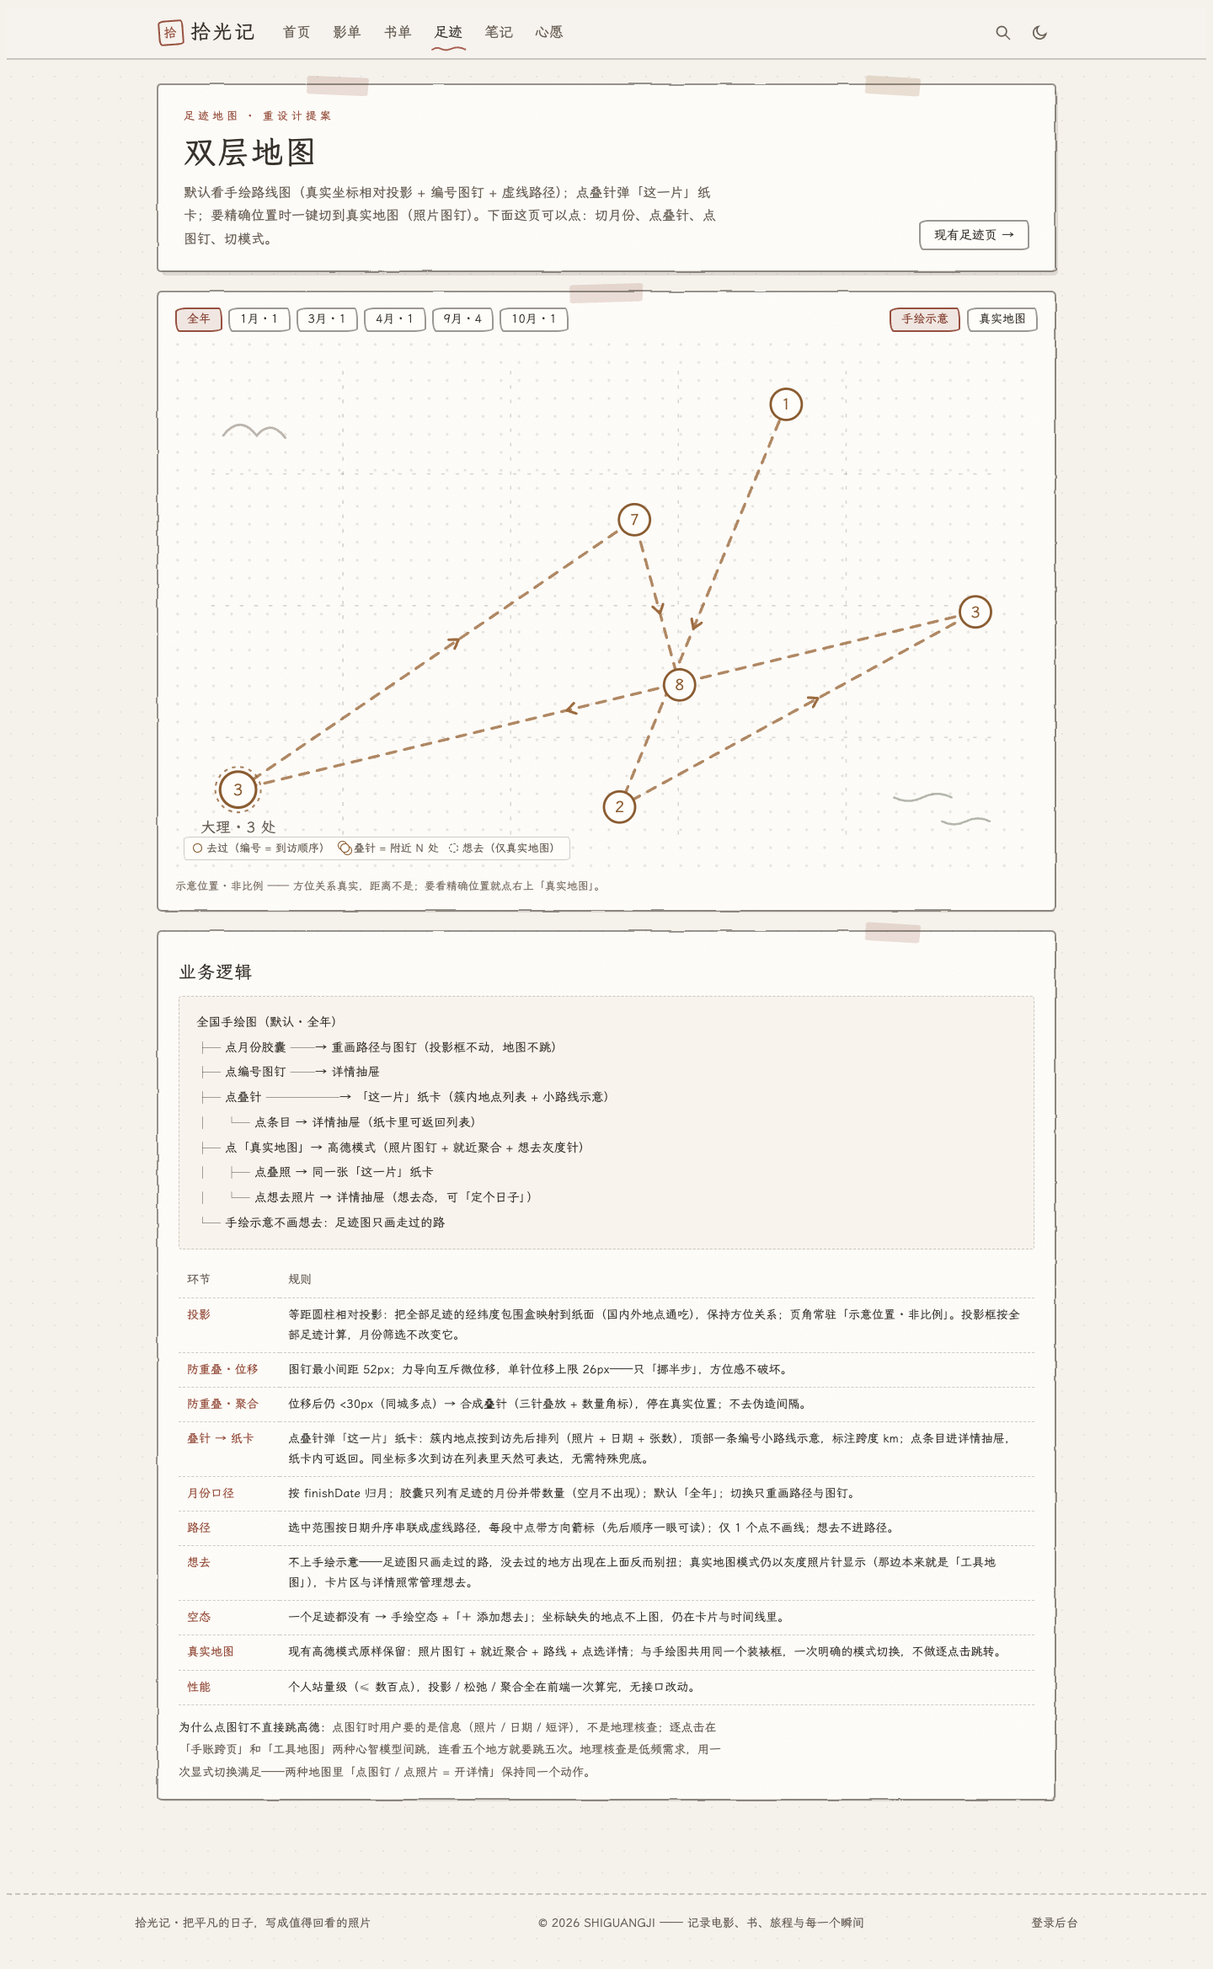
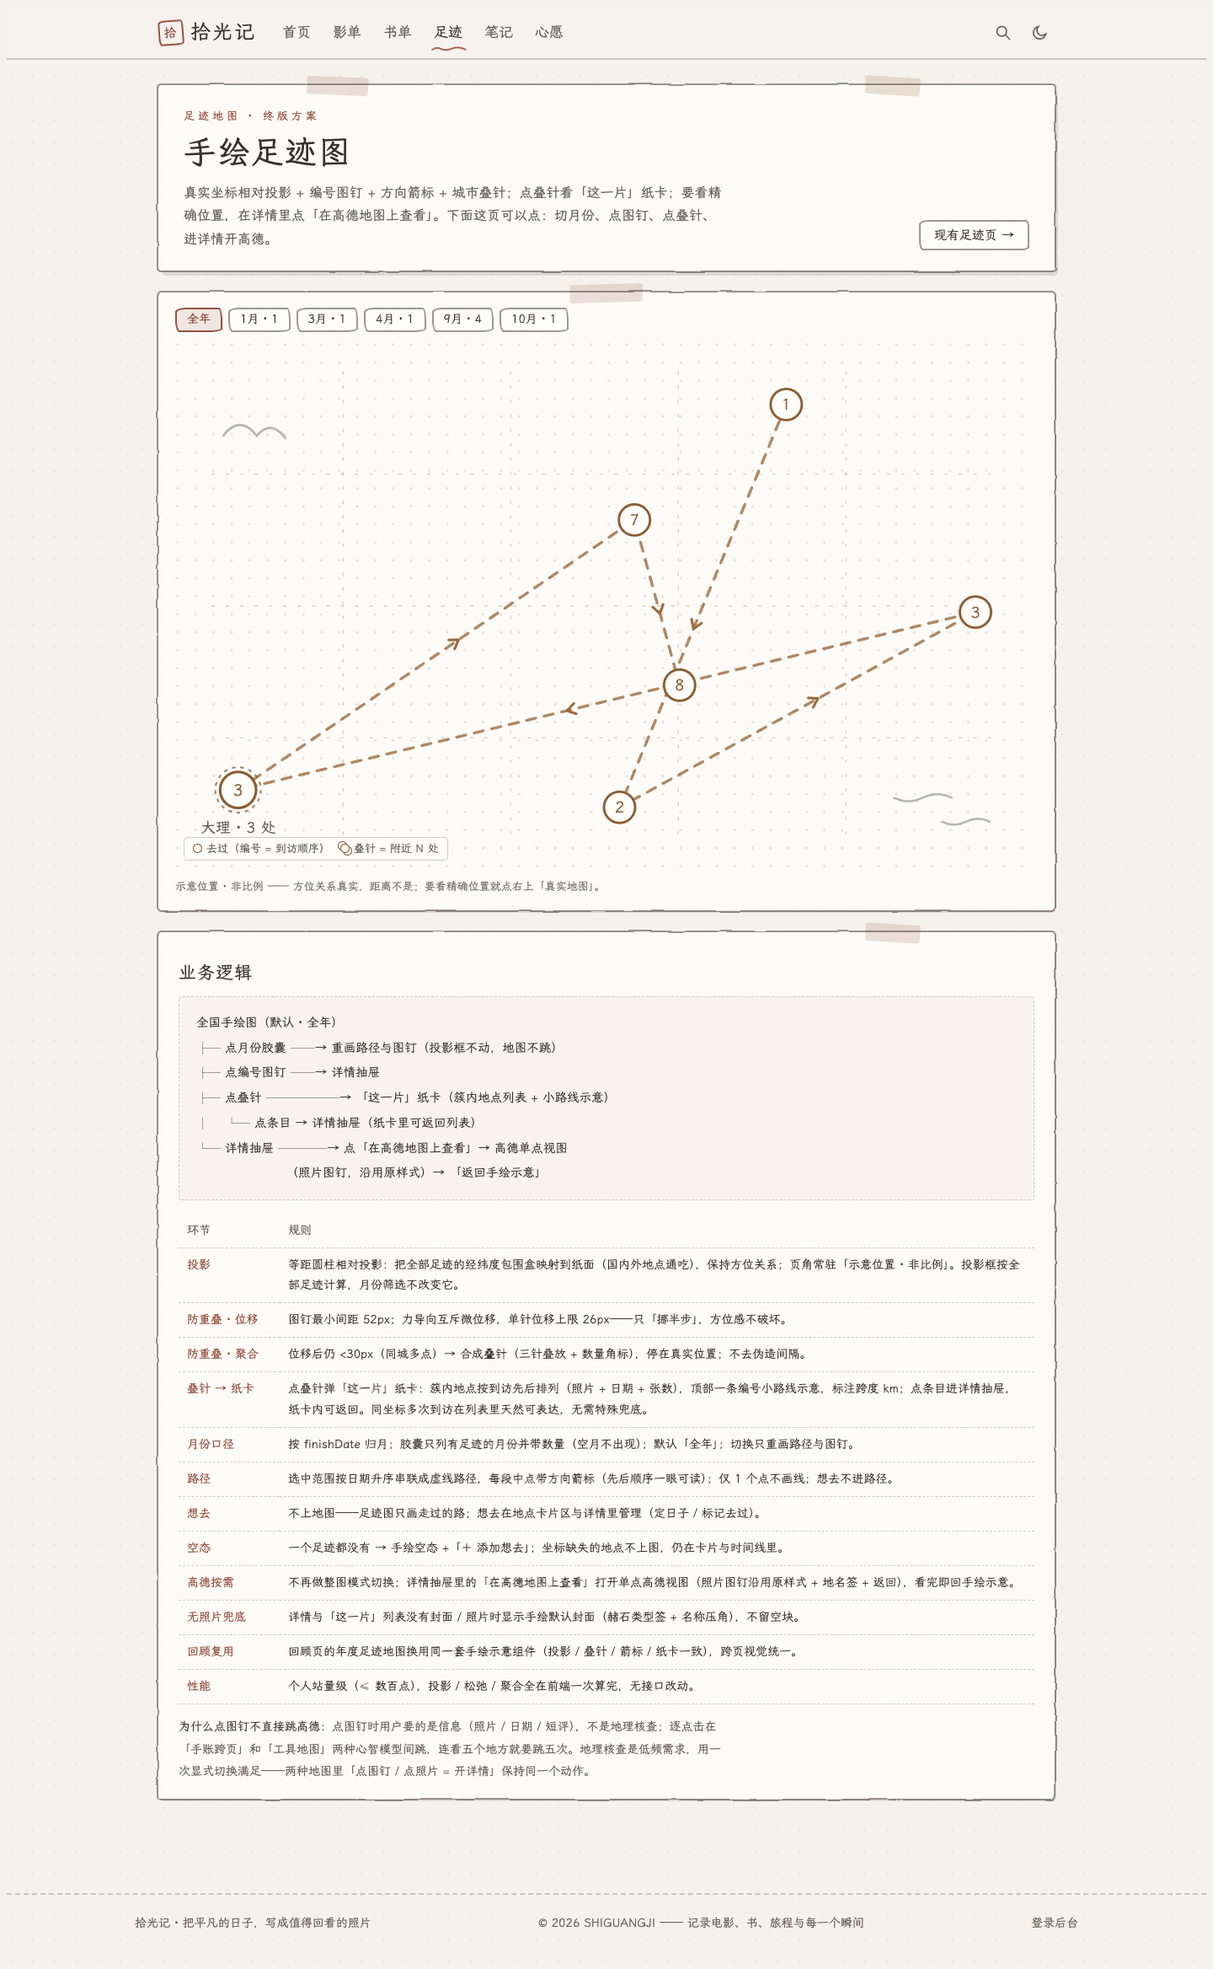
docs(handdrawn): 足迹地图终版——砍掉真实地图模式，高德降为详情单点入口
- 地图只保留手绘足迹图；详情抽屉加「在高德地图上查看」：打开单点高德视图
  （照片图钉沿用原样式 + 地名签 + 返回），不再做整图切换
- 详情与「这一片」列表无照片时显示手绘默认封面（赭石类型签 + 名称压角）
- 想去不上任何地图；回顾页地图复用同一套手绘示意组件（规则表记录）
- 设计文档 §3 足迹改为终版口径；索引卡更新

diff --git a/docs/design/mockups/handdrawn-0.0.6/travel-map.html b/docs/design/mockups/handdrawn-0.0.6/travel-map.html
@@ -3,7 +3,7 @@
 <head>
 <meta charset="utf-8">
 <meta name="viewport" content="width=device-width, initial-scale=1">
-<title>足迹地图重设计 · 设计提案 — 拾光记 0.0.6</title>
+<title>手绘足迹图 · 设计提案 — 拾光记 0.0.6</title>
 <link rel="stylesheet" href="../../../../shiguangji-web/src/assets/fonts/handdrawn/lxgw-wenkai/lxgw-wenkai.css">
 <link rel="stylesheet" href="handdrawn-site.css">
 <style>
@@ -129,6 +129,40 @@
 .page-mapdoc .back-link { border: 0; background: none; padding: 0 0 2px; font-size: 13px; color: var(--hd-ink-soft); cursor: pointer; border-bottom: 1.4px dashed var(--hd-line-soft); font-family: var(--hd-hand) }
 .page-mapdoc .back-link:hover { color: var(--hd-red) }
 
+/* 无照片默认封面（列表小图 / 详情大图共用形制） */
+.page-mapdoc .clu-fb, .page-mapdoc .ph.ph-fb {
+  flex: none; position: relative; overflow: hidden;
+  width: 44px; height: 56px;
+  background: var(--hd-amber-soft);
+  border: 1.6px solid var(--hd-line); border-radius: 3px 1px 4px 2px;
+  display: flex; flex-direction: column; justify-content: flex-end;
+}
+.page-mapdoc .ph.ph-fb { width: 100%; height: 150px; border-radius: 3px; justify-content: flex-end }
+.page-mapdoc .fb-band {
+  position: absolute; top: 0; left: 0; font-style: normal;
+  font-size: 11px; padding: 1px 7px; color: var(--hd-paper);
+  background: var(--hd-ochre); border-radius: 2px 0 3px 0; font-family: var(--hd-hand);
+}
+.page-mapdoc .ph .fb-band { font-size: 13px; padding: 2px 10px }
+.page-mapdoc .fb-t {
+  font-weight: 400; font-size: 12.5px; color: var(--hd-ink);
+  padding: 2px 6px 4px; line-height: 1.3;
+  background: linear-gradient(180deg, transparent, rgba(255, 253, 249, .9) 38%);
+  font-family: var(--hd-hand); white-space: nowrap; overflow: hidden; text-overflow: ellipsis;
+}
+.page-mapdoc .ph .fb-t { font-size: 17px; padding: 6px 12px 8px }
+.page-mapdoc .ph-img { width: 100%; height: 150px; object-fit: cover; border-radius: 3px; display: block }
+
+/* 高德单点视图 */
+.page-mapdoc .amap-back { position: absolute; left: 12px; top: 12px; z-index: 5 }
+.page-mapdoc .amap-title {
+  position: absolute; left: 50%; top: calc(44% + 40px); transform: translateX(-50%);
+  z-index: 4; padding: 3px 12px; font-size: 13.5px; color: var(--hd-ink);
+  background: var(--hd-paper); border: 1.6px solid var(--hd-line);
+  border-radius: 9px 3px 8px 3px / 3px 8px 3px 9px; font-family: var(--hd-hand);
+  white-space: nowrap;
+}
+
 /* 状态机 / 规则 */
 .page-mapdoc .logic { margin-top: 26px; padding: 20px 24px 18px }
 .page-mapdoc .logic h2 { font-size: 21px; letter-spacing: 1px; margin: 14px 0 0 }
@@ -184,9 +218,9 @@
     <span class="hd-tape left"></span>
     <span class="hd-tape right amber"></span>
     <div>
-      <div class="eyebrow">足迹地图 · 重设计提案</div>
-      <h1>双层地图</h1>
-      <p class="desc">默认看手绘路线图（真实坐标相对投影 + 编号图钉 + 虚线路径）；点叠针弹「这一片」纸卡；要精确位置时一键切到真实地图（照片图钉）。下面这页可以点：切月份、点叠针、点图钉、切模式。</p>
+      <div class="eyebrow">足迹地图 · 终版方案</div>
+      <h1>手绘足迹图</h1>
+      <p class="desc">真实坐标相对投影 + 编号图钉 + 方向箭标 + 城市叠针；点叠针看「这一片」纸卡；要看精确位置，在详情里点「在高德地图上查看」。下面这页可以点：切月份、点图钉、点叠针、进详情开高德。</p>
     </div>
     <div class="acts">
       <a class="hd-btn" href="travel.html">现有足迹页 →</a>
@@ -198,10 +232,6 @@
     <span class="hd-tape"></span>
     <div class="map-toolbar">
       <div class="hd-chips" id="monthChips" role="group" aria-label="按月份筛选"></div>
-      <div class="mode-toggle">
-        <button class="hd-chip on" id="modeHand" type="button">手绘示意</button>
-        <button class="hd-chip" id="modeReal" type="button">真实地图</button>
-      </div>
     </div>
     <div class="map-stage" id="mapStage">
       <svg class="map-art" id="handMap" viewBox="0 0 720 440" role="img" aria-label="手绘足迹示意图"></svg>
@@ -209,7 +239,6 @@
       <div class="map-legend">
         <span><i class="lg-dot"></i>去过（编号 = 到访顺序）</span>
         <span><i class="lg-dot cluster"></i>叠针 = 附近 N 处</span>
-        <span id="lgWish"><i class="lg-dot wish"></i>想去（仅真实地图）</span>
       </div>
     </div>
     <p class="map-note">示意位置 · 非比例 —— 方位关系真实，距离不是；要看精确位置就点右上「真实地图」。</p>
@@ -225,10 +254,8 @@
 ├─ 点编号图钉 ──→ 详情抽屉
 ├─ 点叠针 ──────→ 「这一片」纸卡（簇内地点列表 + 小路线示意）
 │    └─ 点条目 → 详情抽屉（纸卡里可返回列表）
-├─ 点「真实地图」→ 高德模式（照片图钉 + 就近聚合 + 想去灰度针）
-│    ├─ 点叠照 → 同一张「这一片」纸卡
-│    └─ 点想去照片 → 详情抽屉（想去态，可「定个日子」）
-└─ 手绘示意不画想去：足迹图只画走过的路</div>
+└─ 详情抽屉 ────→ 点「在高德地图上查看」→ 高德单点视图
+                     （照片图钉，沿用原样式）→ 「返回手绘示意」</div>
 
     <table class="rule-table">
       <thead><tr><th style="width:120px">环节</th><th>规则</th></tr></thead>
@@ -239,9 +266,11 @@
         <tr><td class="k">叠针 → 纸卡</td><td>点叠针弹<b>「这一片」纸卡</b>：簇内地点按到访先后排列（照片 + 日期 + 张数），顶部一条编号小路线示意，标注跨度 km；点条目进详情抽屉，纸卡内可返回。同坐标多次到访在列表里天然可表达，无需特殊兜底。</td></tr>
         <tr><td class="k">月份口径</td><td>按 finishDate 归月；胶囊只列<b>有足迹的月份</b>并带数量（空月不出现）；默认「全年」；切换只重画路径与图钉。</td></tr>
         <tr><td class="k">路径</td><td>选中范围按日期升序串联成虚线路径，<b>每段中点带方向箭标</b>（先后顺序一眼可读）；仅 1 个点不画线；想去不进路径。</td></tr>
-        <tr><td class="k">想去</td><td><b>不上手绘示意</b>——足迹图只画走过的路，没去过的地方出现在上面反而别扭；真实地图模式仍以灰度照片针显示（那边本来就是「工具地图」），卡片区与详情照常管理想去。</td></tr>
+        <tr><td class="k">想去</td><td>不上地图——足迹图只画走过的路；想去在地点卡片区与详情里管理（定日子 / 标记去过）。</td></tr>
         <tr><td class="k">空态</td><td>一个足迹都没有 → 手绘空态 +「＋ 添加想去」；坐标缺失的地点不上图，仍在卡片与时间线里。</td></tr>
-        <tr><td class="k">真实地图</td><td>现有高德模式原样保留：照片图钉 + 就近聚合 + 路线 + 点选详情；与手绘图共用同一个装裱框，一次明确的模式切换，不做逐点击跳转。</td></tr>
+        <tr><td class="k">高德按需</td><td>不再做整图模式切换；详情抽屉里的<b>「在高德地图上查看」</b>打开单点高德视图（照片图钉沿用原样式 + 地名签 + 返回），看完即回手绘示意。</td></tr>
+        <tr><td class="k">无照片兜底</td><td>详情与「这一片」列表没有封面 / 照片时显示手绘默认封面（赭石类型签 + 名称压角），不留空块。</td></tr>
+        <tr><td class="k">回顾复用</td><td>回顾页的年度足迹地图换用<b>同一套手绘示意组件</b>（投影 / 叠针 / 箭标 / 纸卡一致），跨页视觉统一。</td></tr>
         <tr><td class="k">性能</td><td>个人站量级（≤ 数百点），投影 / 松弛 / 聚合全在前端一次算完，无接口改动。</td></tr>
       </tbody>
     </table>
@@ -275,7 +304,7 @@ var PLACES = [
   { id: 3, t: '鸭川', city: '京都', lng: 135.77, lat: 35.01, d: '2026-04-08', photos: 22 },
   { id: 5, t: '洱海', city: '大理', lng: 100.18, lat: 25.75, d: '2026-09-22', photos: 18 },
   { id: 6, t: '喜洲', city: '大理', lng: 100.13, lat: 25.99, d: '2026-09-23', photos: 9 },
-  { id: 7, t: '古城', city: '大理', lng: 100.16, lat: 25.69, d: '2026-09-24', photos: 12 },
+  { id: 7, t: '古城', city: '大理', lng: 100.16, lat: 25.69, d: '2026-09-24', photos: 12, cover: null },
   { id: 4, t: '阿那亚', city: '秦皇岛', lng: 119.30, lat: 39.78, d: '2026-09-27', photos: 31 },
   { id: 8, t: '外滩', city: '上海', lng: 121.48, lat: 31.23, d: '2026-10-12', photos: 7 },
   { id: 9, t: '西湖', city: '杭州', lng: 120.15, lat: 30.25, wish: true, photos: 0 }
@@ -474,9 +503,16 @@ function openCluster(G) {
   members.forEach(function (m) {
     var r = document.createElement('div');
     r.className = 'clu-row';
-    var img = document.createElement('img');
-    img.src = PHOTOS[m.id % PHOTOS.length]; img.alt = m.t;
-    r.appendChild(img);
+    if (m.cover) {
+      var img = document.createElement('img');
+      img.src = m.cover; img.alt = m.t;
+      r.appendChild(img);
+    } else {
+      var fb = document.createElement('span');
+      fb.className = 'clu-fb';
+      fb.innerHTML = '<i class="fb-band">地点</i><b class="fb-t">' + m.t + '</b>';
+      r.appendChild(fb);
+    }
     var tx = document.createElement('div');
     tx.style.minWidth = '0';
     tx.innerHTML = '<div class="clu-t">' + m.t + '</div><div class="clu-m">' + m.city + ' · ' + (m.d || '').slice(5).replace('-', '/') + ' · ' + (m.photos || 0) + ' 张照片</div>';
@@ -513,7 +549,15 @@ function renderPlace(p, fromCluster) {
   meta.innerHTML = '<span>' + p.city + ' · 中国</span><span>' + (p.d ? (Number(p.d.slice(5, 7)) + ' 月 ' + Number(p.d.slice(8, 10)) + ' 日') : '还没定日子') + '</span><span>' + (p.photos || 0) + ' 张照片</span>';
   body.appendChild(meta);
   var ph = document.createElement('div');
-  ph.className = 'ph'; ph.textContent = '首张照片（cover）';
+  ph.className = 'ph';
+  if (p.cover) {
+    var phImg = document.createElement('img');
+    phImg.className = 'ph-img'; phImg.src = p.cover; phImg.alt = p.t;
+    ph.appendChild(phImg);
+  } else {
+    ph.classList.add('ph-fb');
+    ph.innerHTML = '<i class="fb-band">地点</i><b class="fb-t">' + p.t + '</b>';
+  }
   body.appendChild(ph);
   var say = document.createElement('div');
   say.className = 'say';
@@ -521,14 +565,28 @@ function renderPlace(p, fromCluster) {
   body.appendChild(say);
   var acts = document.createElement('div');
   acts.className = 'acts';
-  acts.innerHTML = '<button class="hd-btn sub" type="button">编辑</button><button class="hd-btn sub" type="button">删除</button>';
+  var amapBtn = document.createElement('button');
+  amapBtn.className = 'hd-btn go'; amapBtn.type = 'button';
+  amapBtn.textContent = '在高德地图上查看';
+  amapBtn.addEventListener('click', function () {
+    document.getElementById('mockDrawer').classList.remove('open');
+    drawAmap(p);
+  });
+  acts.appendChild(amapBtn);
+  var edit = document.createElement('button');
+  edit.className = 'hd-btn sub'; edit.type = 'button'; edit.textContent = '编辑';
+  acts.appendChild(edit);
+  var del = document.createElement('button');
+  del.className = 'hd-btn sub'; del.type = 'button'; del.textContent = '删除';
+  acts.appendChild(del);
   body.appendChild(acts);
   document.getElementById('mockDrawer').classList.add('open');
 }
 
-/* ===== 真实地图模式（伪高德演示） ===== */
-var realMap = document.getElementById('realMap');
-function drawReal() {
+/* ===== 高德单点视图（按需）：详情里点「在高德地图上查看」打开，只看这一个点 ===== */
+function drawAmap(p) {
+  handMap.hidden = true;
+  realMap.hidden = false;
   realMap.innerHTML = '';
   [['road', '8%', '30%', '70%', '3px', '-6deg'], ['road', '30%', '80%', '50%', '2px', '4deg'], ['road', '60%', '10%', '60%', '2.5px', '10deg'],
    ['water', 'left:2%;top:55%;width:180px;height:110px'], ['park', 'right:6%;top:8%;width:150px;height:100px']]
@@ -538,48 +596,42 @@ function drawReal() {
      else { n.className = d[0]; n.style.cssText = d[1]; }
      realMap.appendChild(n);
    });
-  var svg = document.createElementNS(SVGNS, 'svg');
-  svg.setAttribute('class', 'real-svg'); svg.setAttribute('viewBox', '0 0 720 440'); svg.setAttribute('preserveAspectRatio', 'none');
-  realMap.appendChild(svg);
-  var visited = filtered();
-  var groups = decluster(visited).groups;
-  if (visited.length > 1) {
-    var pts = visited.map(function (p) {
-      var G = groups.find(function (G) { return G.items.includes(p); });
-      return [G.cx, G.cy];
-    });
-    el('path', { class: 'map-route', d: 'M' + pts.map(function (q) { return q[0] + ',' + q[1]; }).join(' L'), 'stroke-width': 3 }, svg);
-    routeArrows(pts, svg);
-  }
-  groups.forEach(function (G) {
-    var d = document.createElement('div');
-    d.className = 'real-pin';
-    d.style.left = (G.cx / VB.w * 100) + '%';
-    d.style.top = (G.cy / VB.h * 100) + '%';
-    if (G.items.length > 1) {
-      d.classList.add('stack');
-      var im2 = document.createElement('img'); im2.src = PHOTOS[2]; im2.className = 'sec'; d.appendChild(im2);
-      var im3 = document.createElement('img'); im3.src = PHOTOS[3]; im3.className = 'thi'; d.appendChild(im3);
-    }
-    var best = G.items.slice().sort(function (a, b) { return (b.photos || 0) - (a.photos || 0); })[0];
-    var im = document.createElement('img'); im.src = PHOTOS[best.id % PHOTOS.length]; im.alt = best.t; d.appendChild(im);
-    var c = document.createElement('span'); c.className = 'cnt'; c.textContent = G.items.reduce(function (s, q) { return s + (q.photos || 1); }, 0); d.appendChild(c);
-    d.addEventListener('click', function (e) { e.stopPropagation(); openCluster(G); });
-    realMap.appendChild(d);
-  });
-  PLACES.filter(function (p) { return p.wish; }).forEach(function (p) {
-    var d = document.createElement('div');
-    d.className = 'real-pin wish-pin';
-    d.style.left = (p.x / VB.w * 100) + '%'; d.style.top = (p.y / VB.h * 100) + '%';
-    var im = document.createElement('img'); im.src = PHOTOS[p.id % PHOTOS.length]; im.alt = p.t; d.appendChild(im);
-    var c = document.createElement('span'); c.className = 'cnt'; c.textContent = '想'; d.appendChild(c);
-    d.addEventListener('click', function (e) { e.stopPropagation(); openDrawer(p); });
-    realMap.appendChild(d);
-  });
-  var attrib = document.createElement('div'); attrib.className = 'real-attrib'; attrib.textContent = '高德地图 · 演示底图'; realMap.appendChild(attrib);
+  /* 返回按钮 */
+  var back = document.createElement('button');
+  back.className = 'hd-btn amap-back';
+  back.type = 'button';
+  back.textContent = '← 返回手绘示意';
+  back.addEventListener('click', closeAmap);
+  realMap.appendChild(back);
+  /* 单点照片图钉（沿用原样式）+ 地名签 */
+  var pin = document.createElement('div');
+  pin.className = 'real-pin';
+  pin.style.left = '50%'; pin.style.top = '44%';
+  var im = document.createElement('img');
+  im.src = p.cover || PHOTOS[p.id % PHOTOS.length];
+  im.alt = p.t;
+  pin.appendChild(im);
+  var c = document.createElement('span');
+  c.className = 'cnt'; c.textContent = p.photos || 1;
+  pin.appendChild(c);
+  pin.addEventListener('click', function () { renderPlace(p); });
+  realMap.appendChild(pin);
+  var title = document.createElement('div');
+  title.className = 'amap-title';
+  title.textContent = p.t + ' · ' + p.city;
+  realMap.appendChild(title);
+  var attrib = document.createElement('div');
+  attrib.className = 'real-attrib';
+  attrib.textContent = '高德地图 · 演示底图';
+  realMap.appendChild(attrib);
+}
+function closeAmap() {
+  realMap.hidden = true;
+  handMap.hidden = false;
+  drawHand();
 }
 
-/* ===== 月份胶囊 / 模式切换 / 详情抽屉 ===== */
+/* ===== 月份胶囊 / 抽屉 ===== */
 var chips = document.getElementById('monthChips');
 function drawChips() {
   var counts = {};
@@ -592,28 +644,13 @@ function drawChips() {
   chips.querySelectorAll('button').forEach(function (b) {
     b.addEventListener('click', function () {
       state.month = b.dataset.m;
-      drawChips(); render();
+      drawChips(); drawHand();
     });
   });
 }
-var modeHand = document.getElementById('modeHand'), modeReal = document.getElementById('modeReal');
-modeHand.addEventListener('click', function () { state.mode = 'hand'; setMode(); });
-modeReal.addEventListener('click', function () { state.mode = 'real'; setMode(); });
-function setMode() {
-  modeHand.classList.toggle('on', state.mode === 'hand');
-  modeReal.classList.toggle('on', state.mode === 'real');
-  handMap.hidden = state.mode !== 'hand';
-  realMap.hidden = state.mode !== 'real';
-  var lg = document.querySelector('.map-legend');
-  lg.style.display = '';
-  document.getElementById('lgWish').style.display = state.mode === 'hand' ? 'none' : '';
-  render();
-}
-function render() { if (state.mode === 'hand') drawHand(); else drawReal(); }
+document.getElementById('drawerClose').addEventListener('click', function () { document.getElementById('mockDrawer').classList.remove('open'); });
 
-document.getElementById('drawerClose').addEventListener('click', function () { drawer.classList.remove('open'); });
-
-drawChips(); render();
+drawChips(); drawHand();
 </script>
 </body>
 </html>

diff --git a/docs/design/mockups/handdrawn-0.0.6/index.html b/docs/design/mockups/handdrawn-0.0.6/index.html
@@ -234,9 +234,9 @@
       </a>
       <a class="page-card hd-paper" href="travel-map.html">
         <div class="thumb"><div class="mini"></div></div>
-        <div class="t">足迹地图 <span class="risk mid">重设计提案</span></div>
-        <div class="d">双层地图：默认手绘示意（真实坐标相对投影 + 编号图钉 + 叠针 + 放大镜），一键切真实地图（照片图钉）。可交互。</div>
-        <div class="tags"><span class="hd-tag plain">/travel</span><span class="hd-tag plain">提案</span></div>
+        <div class="t">足迹地图 <span class="risk mid">终版方案</span></div>
+        <div class="d">手绘足迹图（真实坐标相对投影 + 编号图钉 + 方向箭标 + 城市叠针 + 月份胶囊）；点叠针弹「这一片」纸卡；详情里可单点打开高德。可交互。</div>
+        <div class="tags"><span class="hd-tag plain">/travel</span><span class="hd-tag plain">终版</span></div>
       </a>
       <a class="page-card hd-paper" href="covers.html">
         <div class="thumb"><div class="mini"></div></div>
